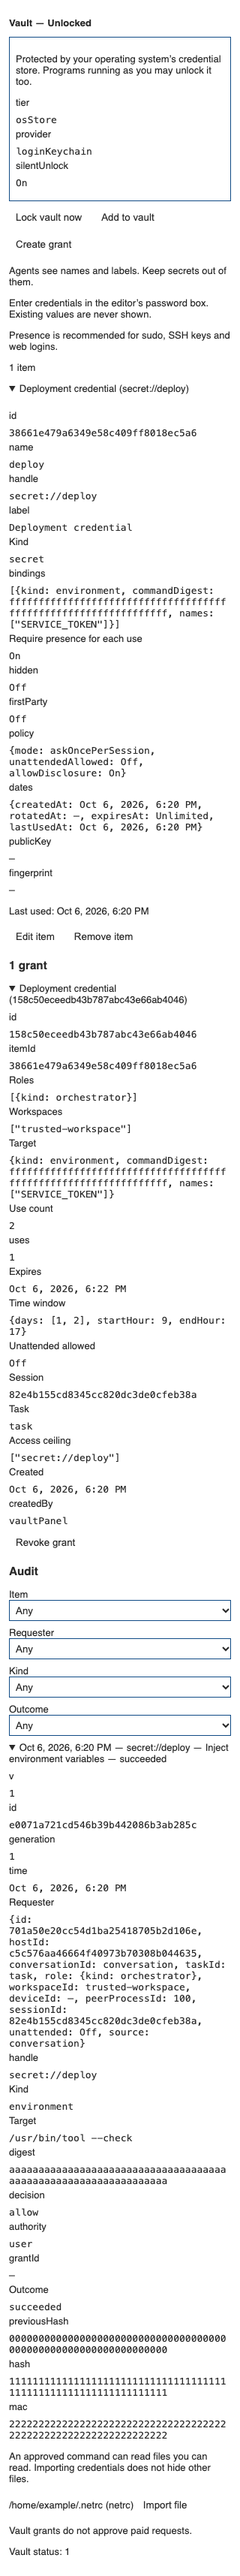
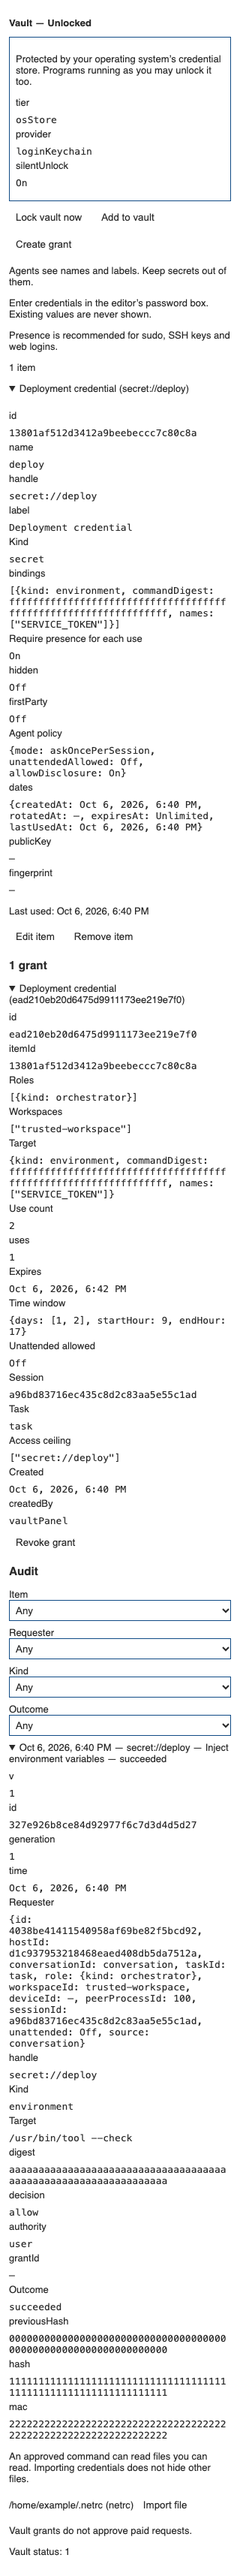
test(vault): certify final panel surfaces and bundle limits
Refresh all four themes at both widths, add platform-notice and safe-session scenes, record exact lazy graph sizes and source hashes, and clarify SSH signing and observed Secure Enclave warnings in all languages. Document the real-service and W-owned gate integration handoffs.

diff --git a/src/shared/l10n/en.ts b/src/shared/l10n/en.ts
@@ -3152,7 +3152,7 @@ export const EN = {
     presenceTierWarning:
       'Every use needs your touch, PIN or passphrase. Unattended use is refused.',
     sshUse: 'SSH authentication',
-    sshSignUse: 'Sign a Git commit',
+    sshSignUse: 'Sign with an SSH key',
     sudoUse: 'Run sudo',
     askpassUse: 'Script askpass',
     gitUse: 'HTTPS for Git',
@@ -3179,8 +3179,7 @@ export const EN = {
     approval: '{requester} requests {use} with {item} for {target}.',
     paidWarning: 'Vault grants do not approve paid requests.',
     windowsElevation: 'Windows elevation uses UAC and cannot be brokered.',
-    seUnavailable:
-      'Secure Enclave protection is unavailable until this helper is certified on a capable Mac. Use a passphrase for presence.',
+    seUnavailable: 'Secure Enclave protection is unavailable. Use a passphrase for presence.',
     passphraseWarning:
       'A passphrase is required to unlock. It protects a copied disk and prevents silent unlock by programs running as you.',
     operationFailed: 'The vault operation failed. Unlock the vault and try again.',

diff --git a/test/harness/vault/main.tsx b/test/harness/vault/main.tsx
@@ -150,6 +150,7 @@ const state: VaultPanelState = {
                 : { tainted: true, reasons: [{ source: 'web', label: 'Outside page' }] },
           },
         ],
+  notices: scenario === 'platform-notices' ? ['nopasswd', 'fenceOff', 'seUnavailable'] : [],
   ambientFiles: [{ path: '/home/example/.netrc', kind: 'netrc' }],
 }
 const root = document.querySelector('#root')

diff --git a/docs/certification/m109-u-panel-and-vs-code.md b/docs/certification/m109-u-panel-and-vs-code.md
@@ -41,7 +41,9 @@ package or machine setting. Hooks exist and commits use the repository hooks.
   Ctrl+Alt+Shift+L (Cmd+Alt+Shift+L on macOS).
 - EN plus all fourteen real translations have the new text. The old
   model/provider disclosure wording is corrected to the owner's person-only
-  ruling. French “Session” and Portuguese “Item” were changed to natural
+  ruling. SSH signature labels name the actual operation rather than claiming
+  every namespace is a Git commit. The observed Secure Enclave unavailable
+  notice no longer claims the accepted capture is still pending. French “Session” and Portuguese “Item” were changed to natural
   longer labels after the existing English-leftover gate flagged the cognates.
 
 ## Named integration handoffs (not production fakes)
@@ -66,6 +68,8 @@ package or machine setting. Hooks exist and commits use the repository hooks.
 4. **U-W-BUILD:** `test/harness/vault/build.mjs` demonstrates the production
    multi-entry browser graph (`main`, `models`) and lazy `dist/vault.js`
    factory. W registers those entries in its build, split record and package.
+   Load the emitted `models.css` with the section and transcript/Agent map
+   card mounts: esbuild emits the stylesheet separately.
    New caps: UI 75 KiB including its reachable deferred graph and CSS,
    host 50 KiB. Add `test/harness/vault/main.tsx` and
    `test/harness/vault/run.mjs` as Knip entries (both are actual harness entrypoints). Existing
@@ -90,7 +94,8 @@ other lanes/the lead; this record does not claim those are complete.
 All commands below ran directly on the Mac mini, with one vitest/tsc/eslint/
 build at a time. No test timeout was raised and no aggregate quality run was
 performed. The focused three-file panel/native/controller run passed **58 tests**; the contracts/bundle two-file run passed **26 tests**. All five
-`npm run typecheck` projects passed. `node scripts/check-l10n.mjs` reported
+`npm run typecheck` projects passed, and the harness project passed its own
+`npx tsc -p test/harness/vault/tsconfig.json --noEmit`. `node scripts/check-l10n.mjs` reported
 **0 problems**. `npx jscpd` reported **0 clones** after the external-lock test
 also asserted that the native entry's signal is aborted immediately.
 
@@ -113,11 +118,29 @@ and equal SHA-256 before/after restoration. Every mutation ran on generated
 fake material only. Accessibility's unnamed-button and horizontal-overflow
 mutations were run with `node test/harness/vault/run.mjs --drill`: that mode
 scans the same panel and rules at 320 px without overwriting the full receipt
-or screenshots. Normal mode scans all nineteen scenes in all four themes
-at 690 and 320 px (**152 scans, zero failures**). Machine-readable named mutations with before/after SHA-256 are in
-`m109-u-drills.json`. `m109-u-axe.json` covers all nineteen scenes in four
-VS Code themes at 690 and 320 px (152 scans); screenshots are in
+or screenshots. Normal mode scans all twenty scenes in all four themes
+at 690 and 320 px (**160 scans, zero failures**).
+The platform-notices scene exercises NOPASSWD, fence-off and Secure Enclave
+unavailability together; the safe-session scene covers the session button. Machine-readable named mutations with before/after SHA-256 are in
+`m109-u-drills.json`. `m109-u-axe.json` covers all twenty scenes in four
+VS Code themes at 690 and 320 px (160 scans); screenshots are in
 `m109-u-shots/`. The harness uses generated ids and public metadata only.
+
+The separate App/AppLazy/bundle regression run passed **155 tests**; the
+final touched native/panel/bundle run passed **41 tests**. Across the seven
+owned/dependent files this verifies **237 distinct tests** at default
+repository timeouts. Changed-file ESLint, Prettier and hook CSS lint pass.
+`npm run build` passes the original budgets and split/globals/notices gates:
+extension **436.9/600 KiB**, Model API **446.8/475 KiB**. The independently
+built U graph is **31.3/75 KiB** (including emitted CSS), host **31.9/50 KiB**;
+exact byte sizes and the final source hashes are in `m109-u-bundles.json`.
+The full screenshots were refreshed and the 320 px high-contrast card and
+690 px grant form inspected. The harness closes its owned browser/server and
+removes its profile in nested finally blocks; build tests remove their own
+unique scratch directories. No temporary directory is retained at delivery.
+
+The brief's named `docs/orchestration-gotchas.md` is absent in this base and
+in the local `main` Git tree (read-only lookup). No other worktree was read.
 
 ## Threat-to-control map
 

diff --git a/PLAN.md b/PLAN.md
@@ -21018,7 +21018,7 @@ manifest, help/docs and generated record registrations. U's owning
 panel/native/controller tests, contracts and lazy graph/budgets pass at the
 repository default timeout; typecheck, localization, duplication and the
 existing production build pass. Forty-six guards were deliberately broken,
-observed red and restored byte-exact; 152 accessibility scenes pass across
+observed red and restored byte-exact; 160 accessibility scenes pass across
 four themes and two widths. `npm run deadcode` exits 1 for the two genuine
 standalone harness entrypoints that W must register; `check:host-api` exits 1
 for the generated record that W must refresh. These are named integration
